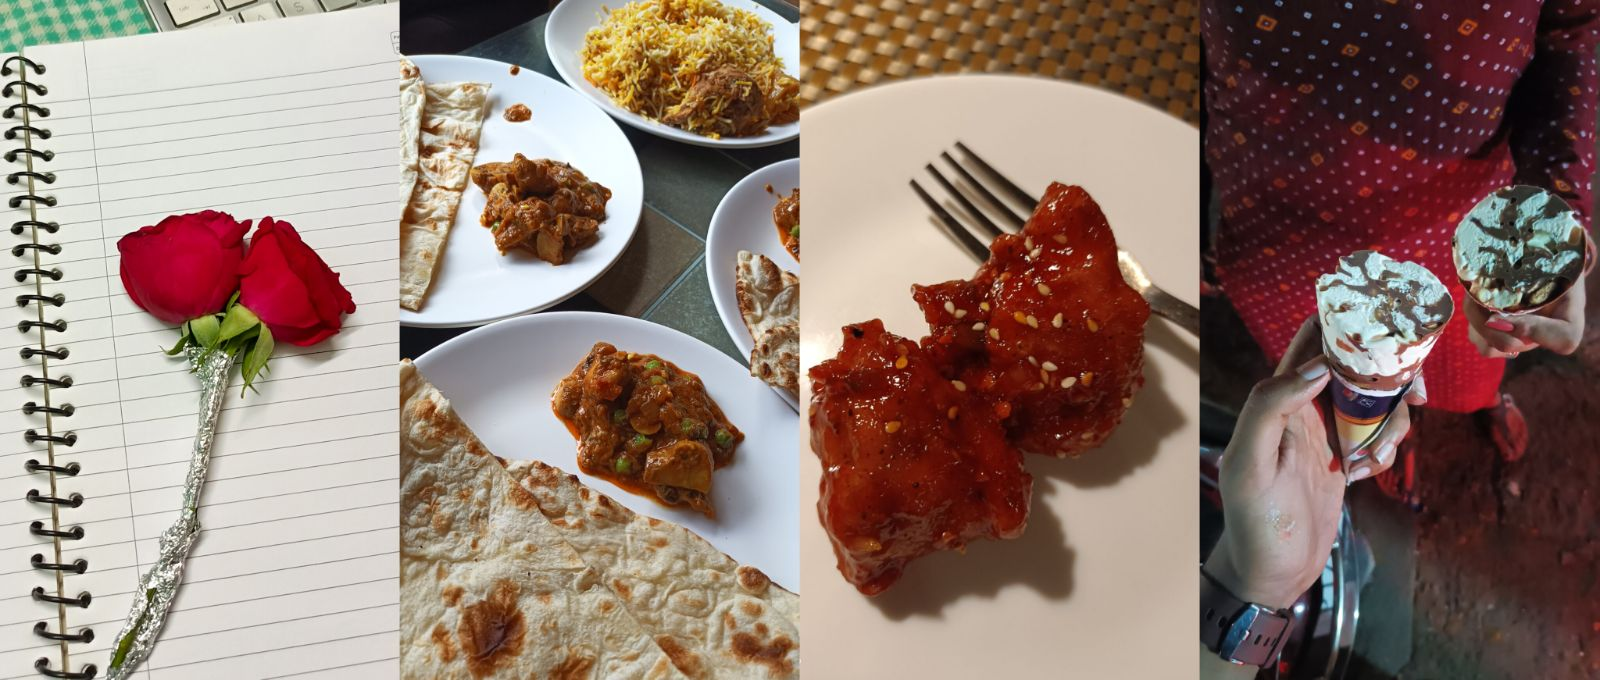
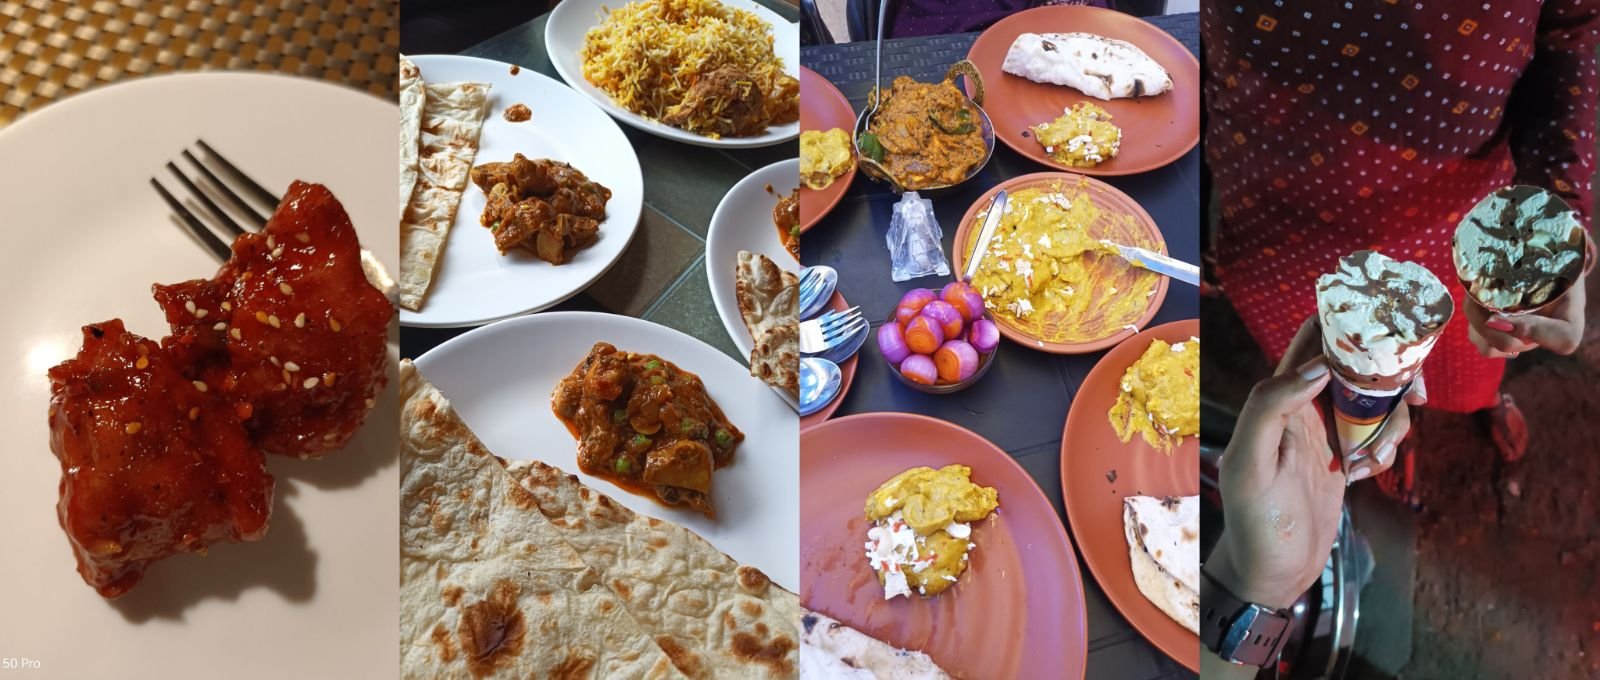
UI Updated

diff --git a/src/components/Sunflower.jsx b/src/components/Sunflower.jsx
@@ -1,41 +1,48 @@
 import React from "react";
 import sun from "../assets/gadgets/sun.png";
-
+import sunshine from "../assets/gadgets/sunshine.png";
 const Sunflower = () => {
   return (
-    <section className="w-full px-4 py-10 md:px-12 md:py-24">
-      <div className="flex w-full flex-col items-center gap-10 border border-[#183B56]/10 bg-white/50 px-5 py-8 md:flex-row md:items-start md:gap-16 md:px-12 md:py-14">
-        {/* Image */}
-        <div className="flex w-full shrink-0 justify-center md:w-[25%]">
-          <div className="relative flex items-center justify-center">
-            <img
-              src={sun}
-              alt="Sunflower"
-              className="relative z-10 w-56 object-contain md:w-72"
-            />
+    <>
+      <section className="w-full px-3 py-10 md:px-12 md:py-24">
+        <div className="flex w-full flex-col items-center gap-10 border border-[#183B56]/10 bg-white/50 px-3 py-8 md:flex-row md:items-start md:gap-16 md:px-12 md:py-14">
+          {/* Image */}
+          <div className="flex w-full shrink-0 justify-center md:w-[25%]">
+            <div className="relative flex items-center justify-center">
+              <img
+                src={sun}
+                loading="lazy"
+                alt="Sunflower"
+                className="relative z-10 w-56 object-contain md:w-72"
+              />
+            </div>
+          </div>
+
+          {/* Text */}
+          <div className="w-full md:w-full">
+            <div className="flex justify-between items-center md:mb-3">
+              {/* <h1 className="text-4xl mb-8 font-heading text-[#dec509] text-justify">
+                You know the Sunflower theory ? 🌻
+              </h1> */}
+
+              <img loading="lazy" className="md:h-20 h-18" src={sunshine} alt="" />
+            </div>
+            <p className=" text-sm md:text-xl leading-[1.8] text-[#183B56] text-justify md:leading-[1.6]">
+              They say a sunflower always turns towards the sun because that’s
+              where it finds light, warmth, and strength. Surjo tokhon thakena,
+              kintu seta wait kore je se abar thik fire asbe. Temni, you are my
+              sunshine. No matter how busy life gets, ar ami jotoi vul kori, at
+              the end of the day, ami tomar kachei fire asi. And you know what?
+              Aj tomar birthday, ar sudhu ajker jonno na, you are special to me
+              every single day, just like the sun is to a sunflower. ❤ <br />{" "}
+              <br /> Thank you for being the sun of my life, and the person my
+              heart always turns towards. 🌻💓 <br />
+              And I’ll always turn towards you. 🌻❤
+            </p>
           </div>
         </div>
-
-        {/* Text */}
-        <div className="w-full md:w-full">
-          <h1 className="text-4xl mb-8 font-heading text-[#dec509] text-justify">
-            You know the Sunflower theory ? 🌻
-          </h1>
-          <p className=" text-lg md:text-xl leading-[1.8] text-[#183B56] text-justify md:leading-[1.6]">
-            They say a sunflower always turns towards the sun because that’s
-            where it finds light, warmth, and strength. Surjo tokhon thakena,
-            kintu seta wait kore je se abar thik fire asbe. Temni, you are my
-            sunshine. No matter how busy life gets, ar ami jotoi vul kori, at
-            the end of the day, ami tomar kachei fire asi. And you know what? Aj
-            tomar birthday, ar sudhu ajker jonno na, you are special to me every
-            single day, just like the sun is to a sunflower. ❤ <br /> <br />{" "}
-            Thank you for being the sun of my life, and the person my heart
-            always turns towards. 🌻💓 <br />
-            And I’ll always turn towards you. 🌻❤
-          </p>
-        </div>
-      </div>
-    </section>
+      </section>
+    </>
   );
 };
 

diff --git a/src/components/TimeMacehine.jsx b/src/components/TimeMacehine.jsx
@@ -7,43 +7,43 @@ import puja from "../assets/images/puja.jpeg";
 import theque from "../assets/images/theque.jpeg";
 
 const TimeMacehine = () => {
-// const items = [
-//   {
-//     image: astami,
-//     caption: "Some moments are worth travelling back to ❤",
-//   },
-//   {
-//     image: puja,
-//     caption: " The memories that started it all ✨",
-//   },
-//   {
-//     image: theque,
-//     caption: "Places change, but these memories stay",
-//   },
-//   {
-//     image: food,
-//     caption: "Good food, good days, and my favourite person",
-//   },
-// ];
-
-
 const items = [
   {
-    image:
-      "https://images.unsplash.com/photo-1782977389500-dd7adad33ebe?q=80&w=1600&auto=format&fit=crop",
-    caption: "One",
+    image: astami,
+    caption: "Some moments are worth travelling back to ❤",
   },
   {
-    image:
-      "https://images.unsplash.com/photo-1781499455083-6ccc3beb20cd?q=80&w=1600&auto=format&fit=crop",
-    caption: "Two",
+    image: puja,
+    caption: " The memories that started it all ✨",
   },
   {
-    image:
-      "https://images.unsplash.com/photo-1776394254711-4a0d7345269a?q=80&w=1600&auto=format&fit=crop",
-    caption: "Three",
+    image: theque,
+    caption: "Places change, but these memories stay",
+  },
+  {
+    image: food,
+    caption: "Good food, good days, and my favourite person",
   },
 ];
+
+
+// const items = [
+//   {
+//     image:
+//       "https://images.unsplash.com/photo-1782977389500-dd7adad33ebe?q=80&w=1600&auto=format&fit=crop",
+//     caption: "One",
+//   },
+//   {
+//     image:
+//       "https://images.unsplash.com/photo-1781499455083-6ccc3beb20cd?q=80&w=1600&auto=format&fit=crop",
+//     caption: "Two",
+//   },
+//   {
+//     image:
+//       "https://images.unsplash.com/photo-1776394254711-4a0d7345269a?q=80&w=1600&auto=format&fit=crop",
+//     caption: "Three",
+//   },
+// ];
   return (
     <section className="md:min-h-screen w-full overflow-hidden px-4 py-8 sm:px-6 sm:py-10 md:px-12 md:py-12">
       {/* Header */}

diff --git a/src/App.jsx b/src/App.jsx
@@ -10,7 +10,8 @@ import Sunflower from "./components/Sunflower";
 import CountDown from "./components/CountDown";
 
 const App = () => {
-  const countDownDate = "August 21, 2026 13:30:00";
+  // const countDownDate = "August 21, 2026 13:22:00";
+  const countDownDate = "September 16, 2026 00:00:00";
   const targetTime = new Date(countDownDate).getTime();
 
   const [isBirthday, setIsBirthday] = useState(Date.now() >= targetTime);
@@ -73,7 +74,7 @@ useEffect(() => {
         <Navbar />
         <Hero />
         <Sunflower />
-        <TimeMacehine />
+        {/* <TimeMacehine /> */}
         <Footer />
       </div>
     </>
